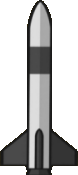
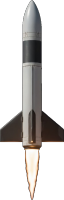
Improvements

diff --git a/frontend/lib/domain/components/match_component.dart b/frontend/lib/domain/components/match_component.dart
@@ -209,7 +209,7 @@ class MatchComponent extends World {
     if (launchers.length > 1) {
       final MissileComponent missileComponent = MissileComponent(
         position: battlefieldComponent.siloComponent.absolutePosition,
-        size: nodeSize / 2,
+        size: nodeSize,
         player: player,
         damage: event.damage!,
         targetPosition: _centerLauncher(launchers),

diff --git a/frontend/lib/environments/environment_local.dart b/frontend/lib/environments/environment_local.dart
@@ -10,7 +10,7 @@ class LocalEnvironment extends Environment {
   String get serverHost => 'ws://localhost:3000';
 
   @override
-  bool get audioEnabled => false;
+  bool get audioEnabled => true;
 
   @override
   bool get joinTestMatch =>

diff --git a/frontend/lib/domain/components/missile_component.dart b/frontend/lib/domain/components/missile_component.dart
@@ -40,7 +40,7 @@ class MissileComponent extends SpriteComponent {
       size.x = size.y * (image.width.toDouble() / image.height.toDouble());
     }
 
-    speed = size.x * 15;
+    speed = size.x * 10;
 
     return super.onLoad();
   }

diff --git a/frontend/README.md b/frontend/README.md
@@ -1,7 +1,6 @@
 ### High
 
 - Bug moving to a launcher
-- Add missile thrust
 - Moving to the same tile -> avoid
 - Drive popcap from server
 - Path finding
